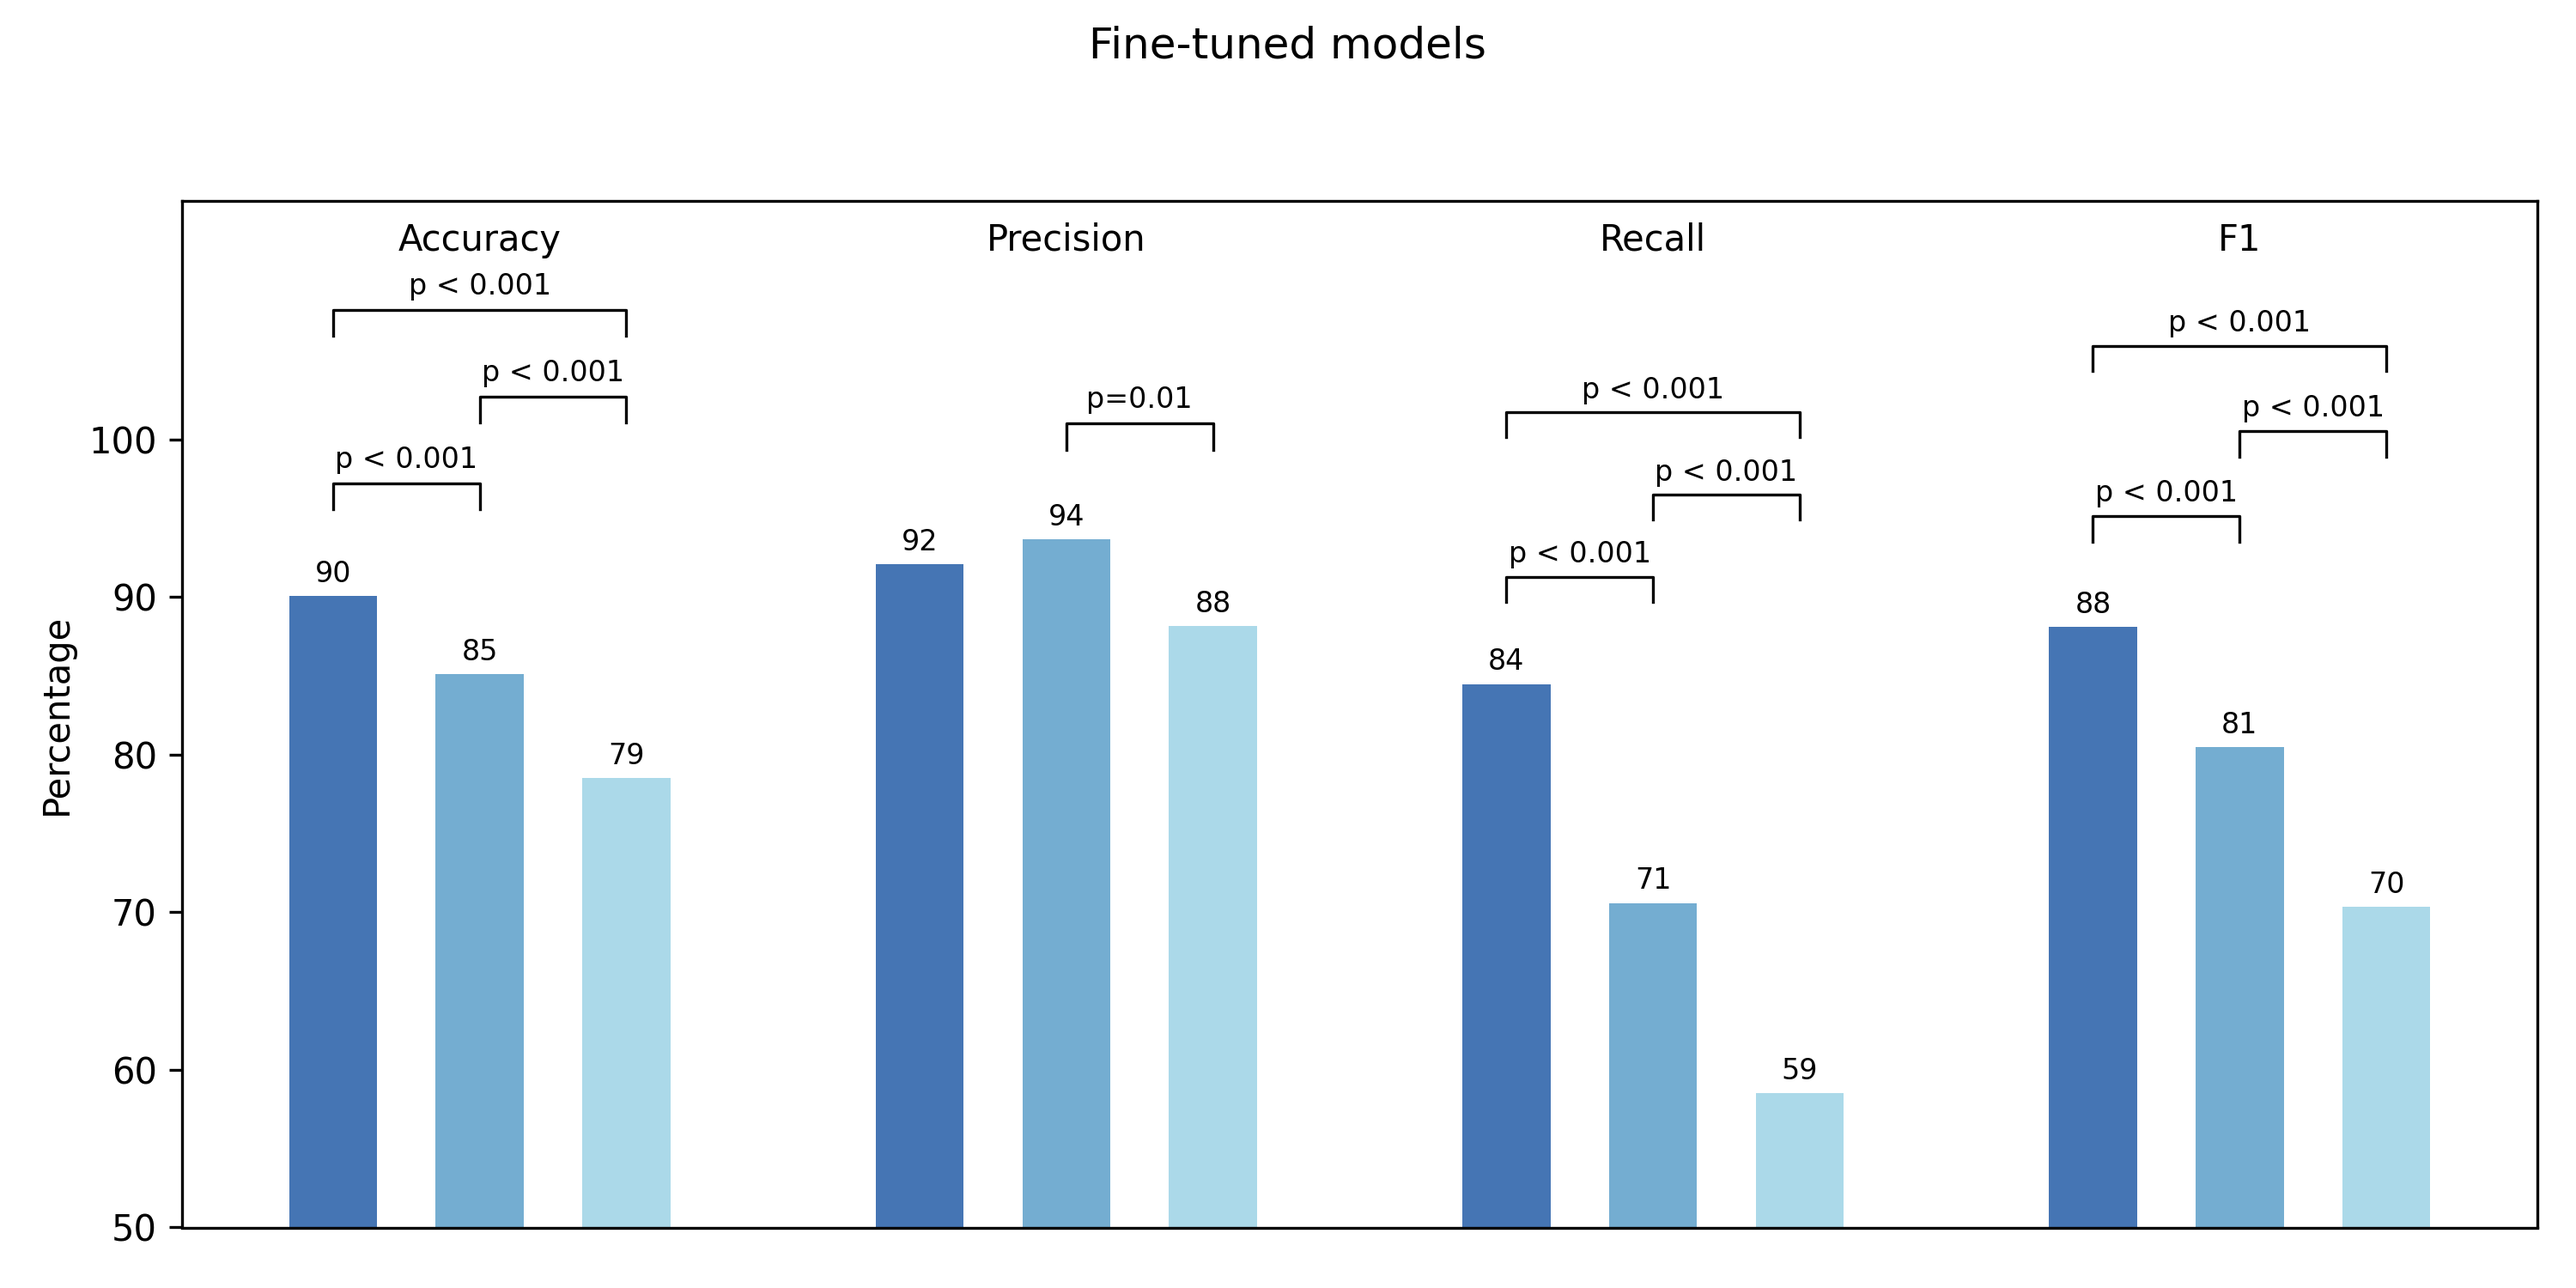
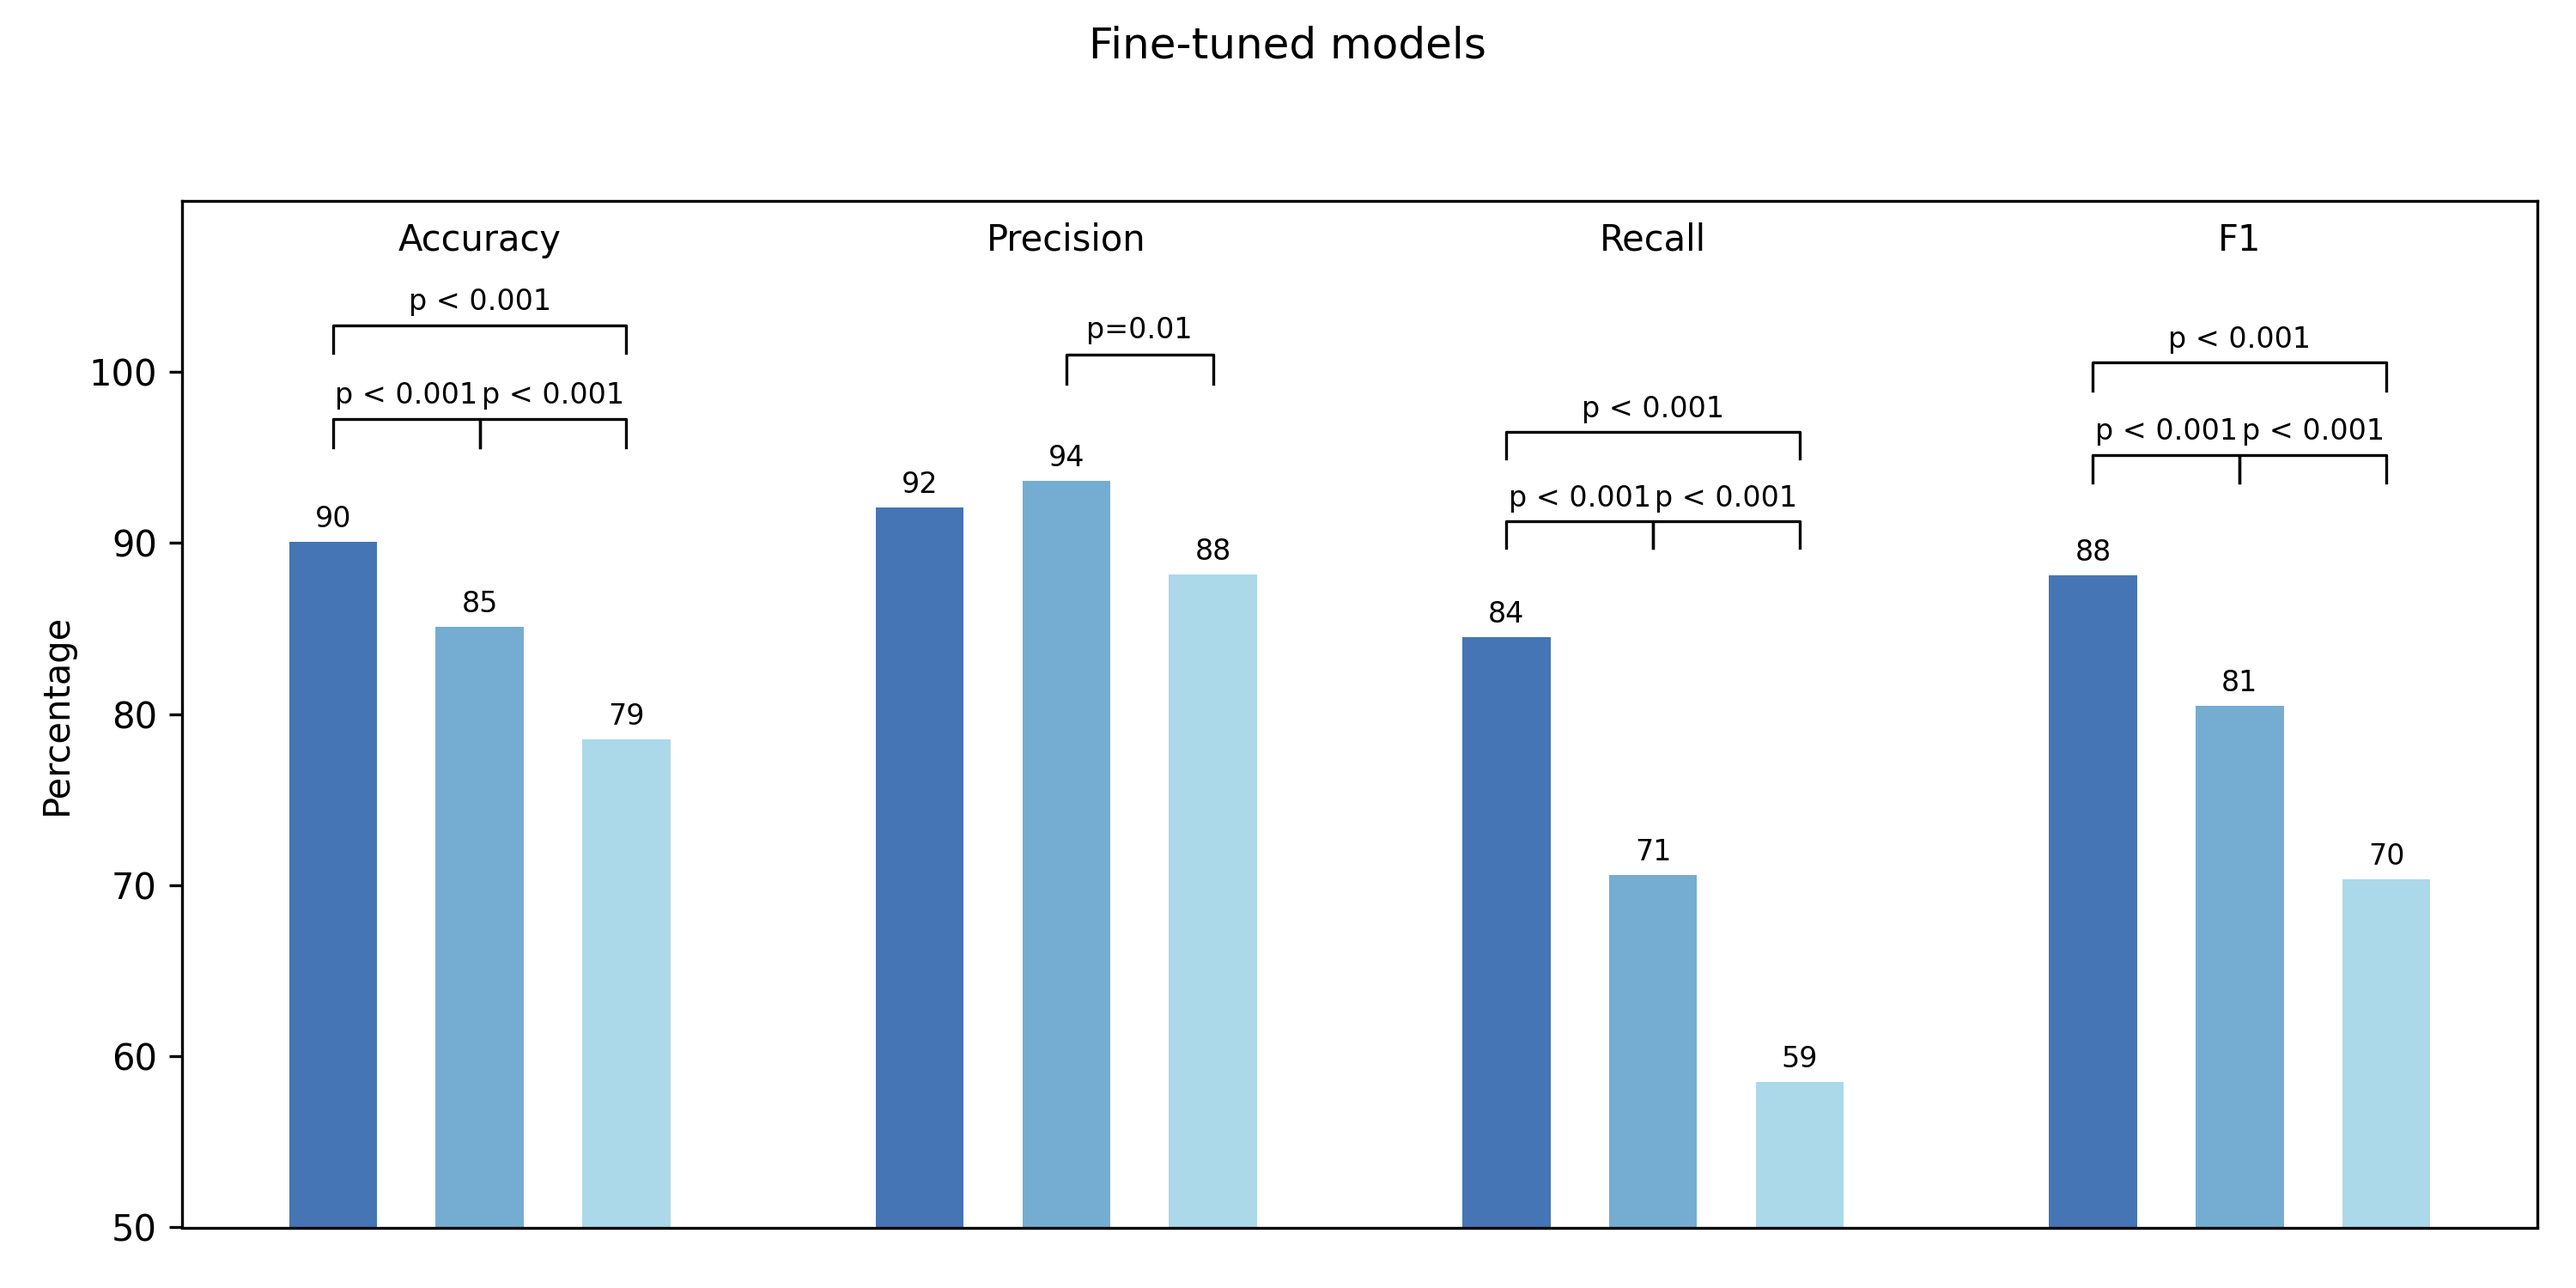
update figure format

diff --git a/inter_model_compare/generate_three_figures.py b/inter_model_compare/generate_three_figures.py
@@ -161,26 +161,36 @@ def annotate_significance(
     sig_entries = [(pair, p_corr) for (pair, _), p_corr in zip(pairs, corrected) if p_corr < alpha]
     if not sig_entries:
         return
+
     # Plot tighter (shorter-span) comparisons closer to the bars; break ties by p-value.
-    sig_entries.sort(
-        key=lambda t: (abs(positions[t[0][0]] - positions[t[0][1]]), t[1])
-    )
+    sig_entries.sort(key=lambda t: (abs(positions[t[0][0]] - positions[t[0][1]]), t[1]))
+
+    # Group by span so pairs of the same distance share a horizontal line.
+    span_groups: Dict[float, List[Tuple[Tuple[str, str], float]]] = {}
+    for entry in sig_entries:
+        span = abs(positions[entry[0][0]] - positions[entry[0][1]])
+        span_groups.setdefault(span, []).append(entry)
 
     max_height = max(heights.values())
     step = max_height * 0.05 + 1
-    next_y = max_height + step
+    current_y = max_height + step
 
-    for pair, p_corr in sig_entries:
-        a, b = pair
-        x1, x2 = positions[a], positions[b]
-        # Ensure the annotation clears the taller bar of the pair
-        y = max(next_y, max(heights[a], heights[b]) + step)
-        ax.plot([x1, x1, x2, x2], [y, y + step * 0.3, y + step * 0.3, y], color="k", linewidth=0.8)
-        label = "p < 0.001" if p_corr < 0.001 else f"p={format(p_corr, '.1g')}"
-        ax.text((x1 + x2) / 2, y + step * 0.4, label, ha="center", va="bottom", fontsize=8)
-        next_y = y + step
+    for span in sorted(span_groups.keys()):
+        entries = span_groups[span]
+        # Ensure this band clears the tallest bar in the span.
+        tallest_in_span = max(max(heights[a], heights[b]) for (a, b), _ in entries)
+        y = max(current_y, tallest_in_span + step)
 
-    ylim_upper = next_y + step
+        for pair, p_corr in entries:
+            a, b = pair
+            x1, x2 = positions[a], positions[b]
+            ax.plot([x1, x1, x2, x2], [y, y + step * 0.3, y + step * 0.3, y], color="k", linewidth=0.8)
+            label = "p < 0.001" if p_corr < 0.001 else f"p={format(p_corr, '.1g')}"
+            ax.text((x1 + x2) / 2, y + step * 0.4, label, ha="center", va="bottom", fontsize=8)
+
+        current_y = y + step
+
+    ylim_upper = current_y + step
     ax.set_ylim(y_min, max(ylim_upper, y_min + 1))
 
 
